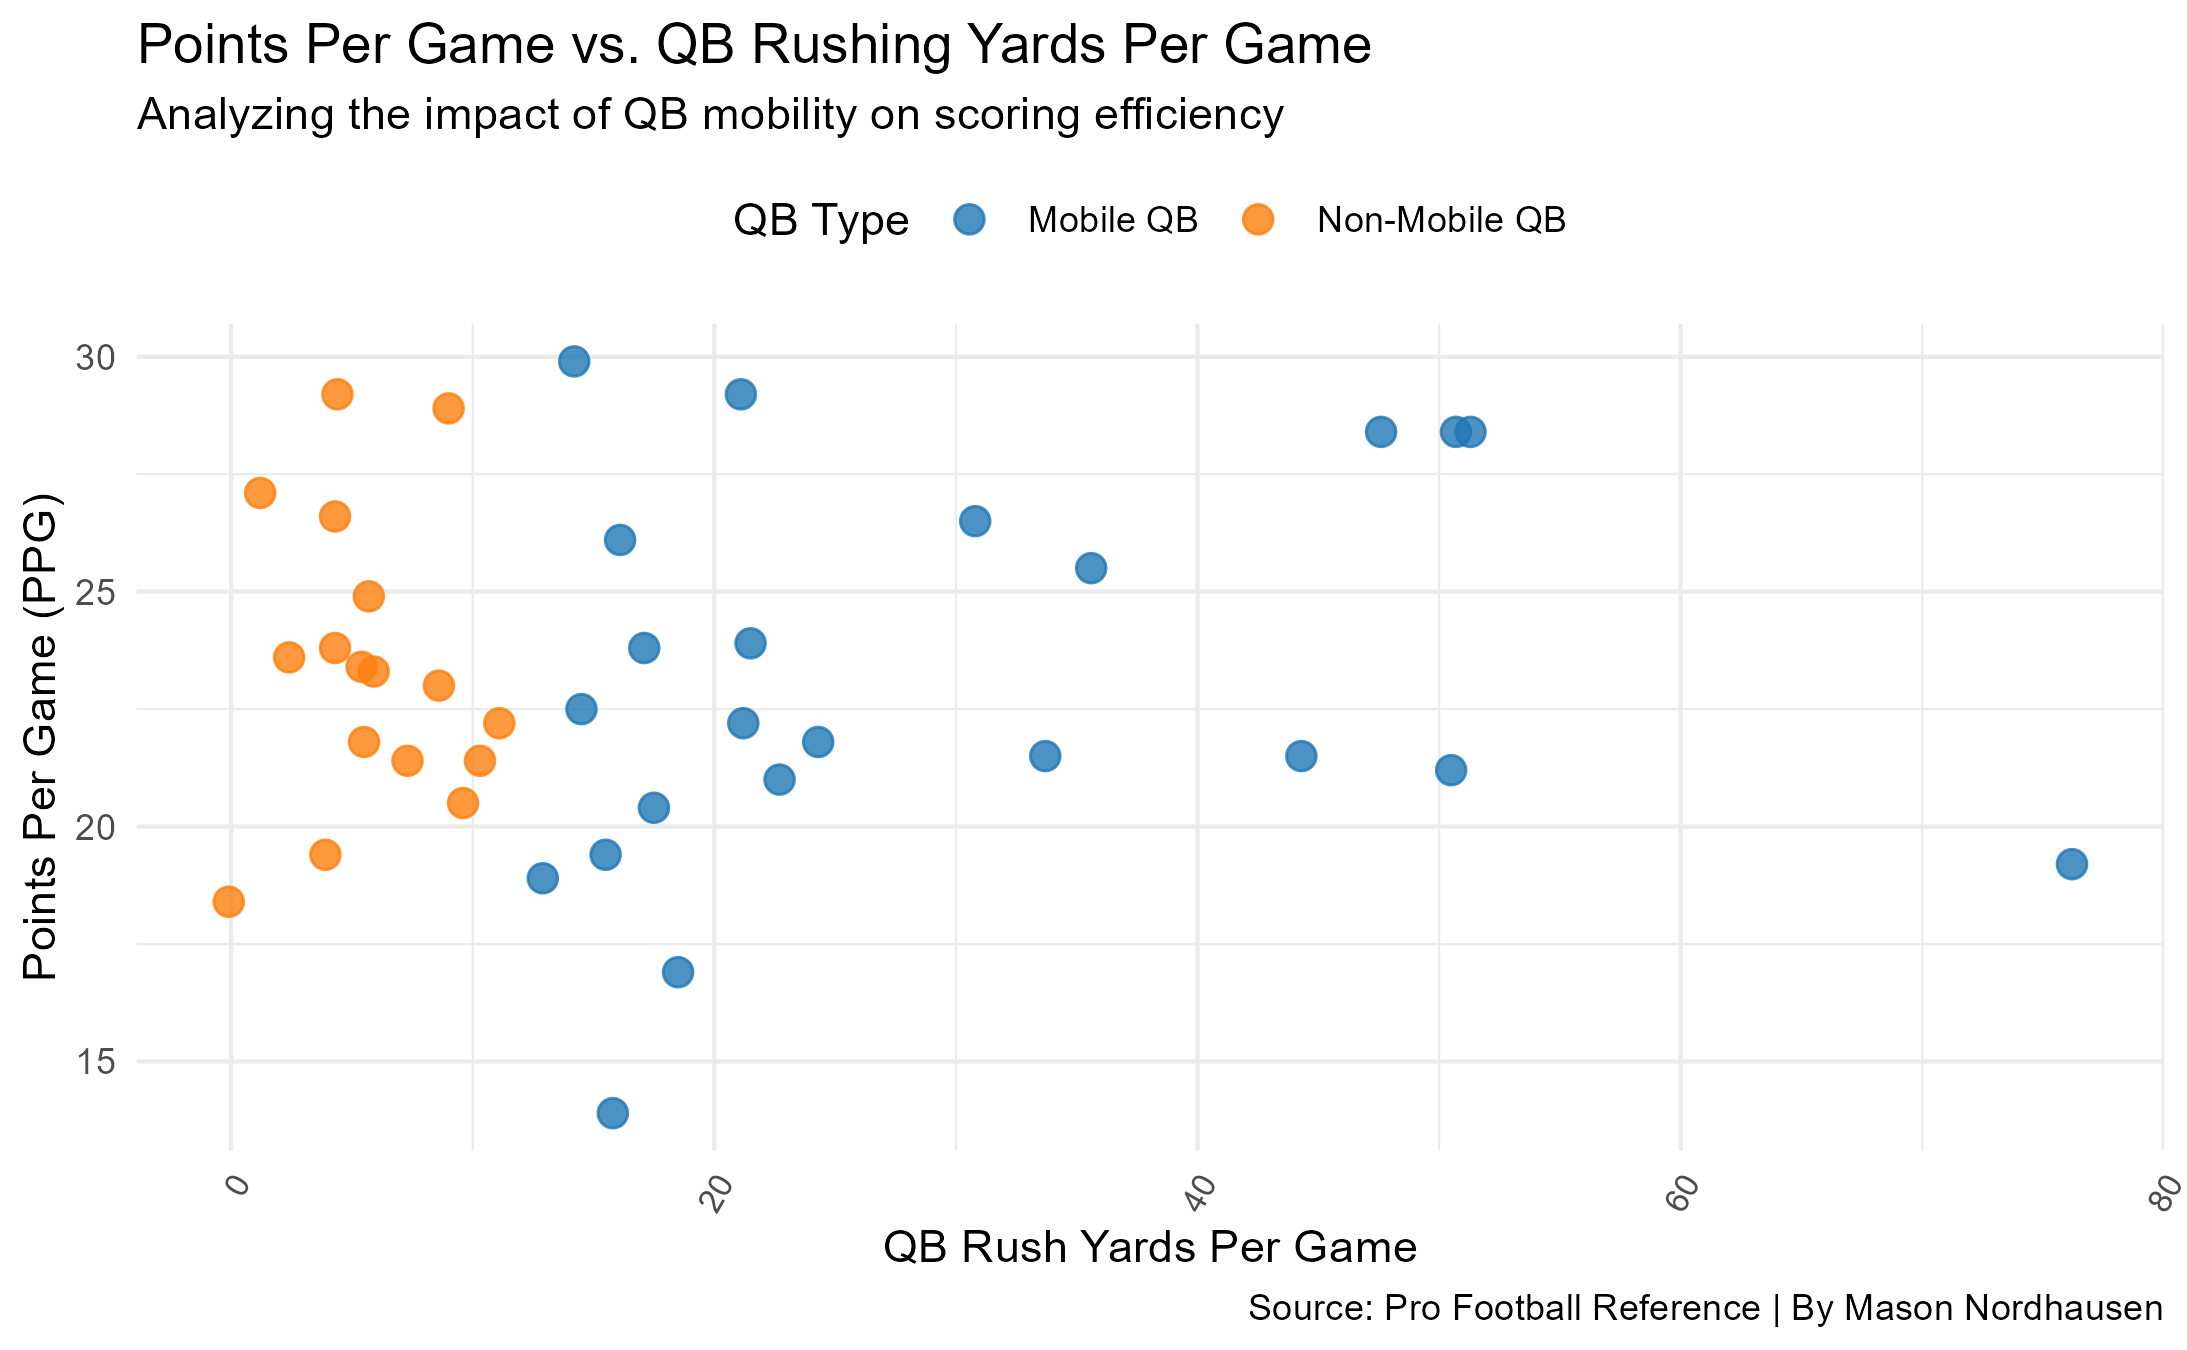
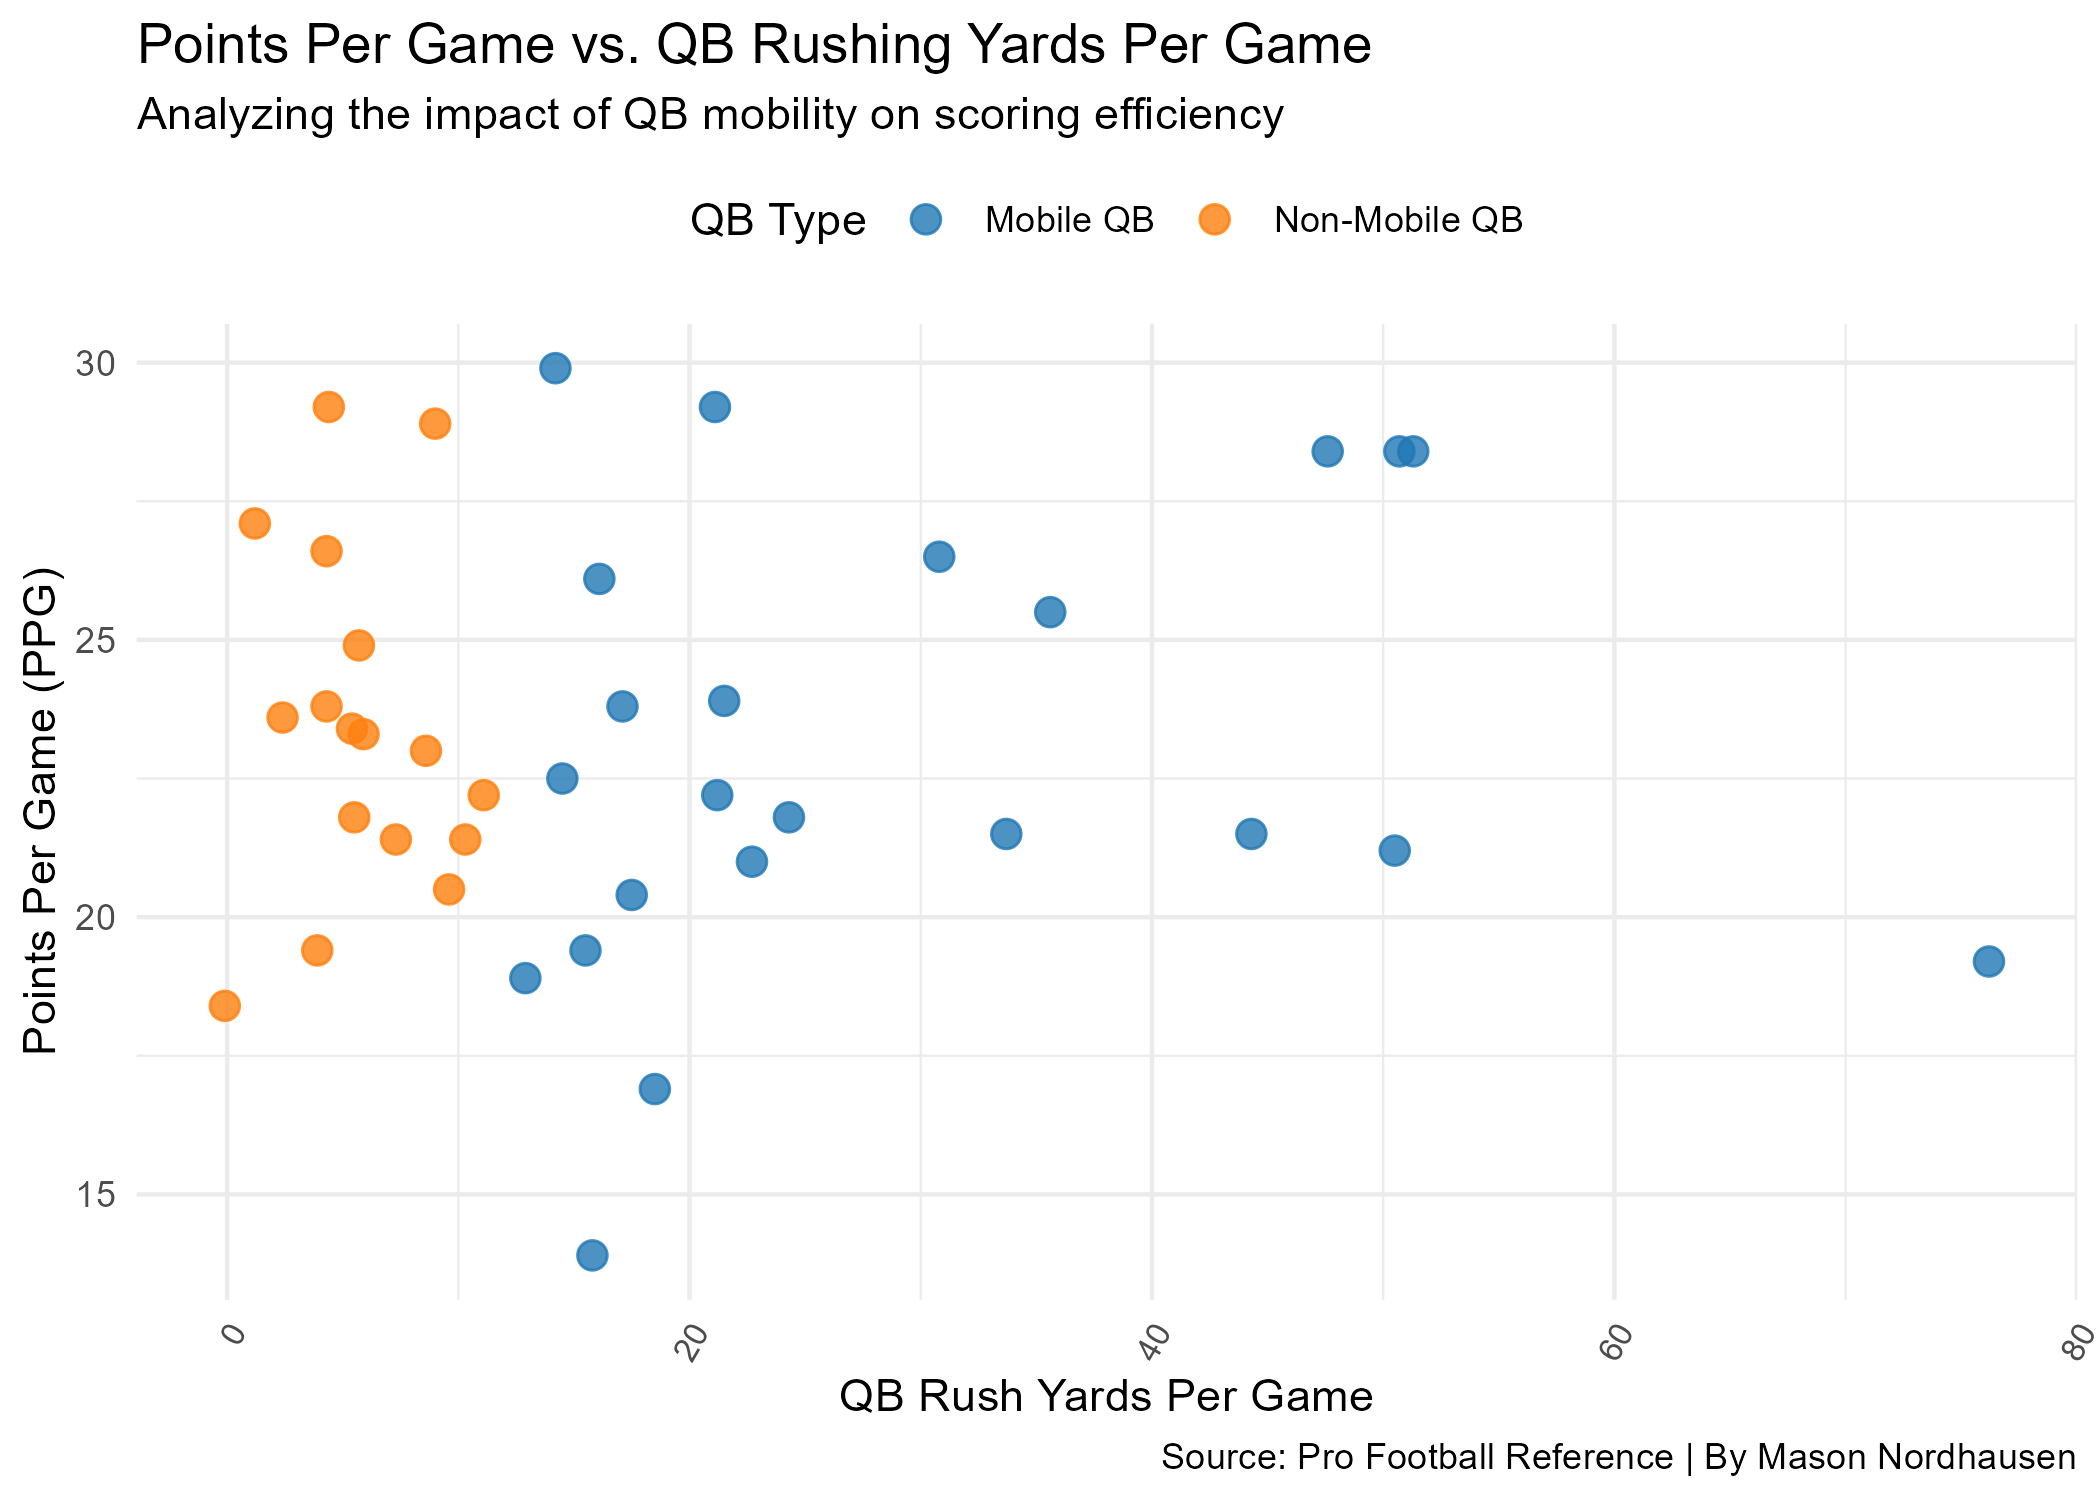
update index

diff --git a/posts/Mobile-Quarterback-Affect/index.html b/posts/Mobile-Quarterback-Affect/index.html
@@ -185,34 +185,19 @@ pre > code.sourceCode > span > a:first-child::before { text-decoration: underlin
 
 
 <p>The NFL has changed so much over the past few years, and one thing I’ve noticed is how mobile quarterbacks have started to dominate the conversation. Players like Lamar Jackson, Jalen Hurts, and Josh Allen have brought a new level of excitement to the game, redefining what it means to be a quarterback. These players aren’t just throwing the ball—they’re running, creating plays with their legs, and adding a whole new dynamic to their teams’ offenses. But I started wondering: does all that mobility actually make a difference? Are teams with mobile quarterbacks really more successful, or is it just a flashy trend?</p>
-<p>To dig into this, I decided to categorize quarterbacks into two groups: Mobile QBs and Non-Mobile QBs. I used a simple rule—if a quarterback was in the top 50% of Rush Yards Per Game among all quarterbacks for a season, I classified them as “Mobile.” Everyone else went into the Non-Mobile group. I thought this approach would give me a clear way to see how rushing quarterbacks impact their teams compared to those who mostly stay in the pocket. I also only wanted players that played in 75% of the teams game so that way team stats are not affected by a backup playing for them (13 games)</p>
+<p>To dig into this, I decided to categorize quarterbacks into two groups: Mobile QBs and Non-Mobile QBs. I used a simple rule, if a quarterback was in the top half of Rush Yards Per Game among all quarterbacks for a season, I classified them as “Mobile.” Everyone else went into the Non-Mobile group. I thought this approach would give me a clear way to see how rushing quarterbacks impact their teams compared to those who mostly stay in the pocket. I also only wanted players that played in the majority of the team’s game so that way team stats are not affected by a backup playing for them (13 games)</p>
 <p>To get the data I needed, I turned to Pro Football Reference. I used different tables within the site to pull data on individual quarterback rushing stats, team offensive metrics like points per game (PPG) and total yards, red zone efficiency, and win-loss records. By combining all of this data, I created a single dataset that links quarterback rushing performance to team success. My goal was simple: find out if having a mobile quarterback leads to better offensive production and more wins.</p>
 <p>The first thing I wanted to look at was the relationship between quarterback rushing yards and key offensive metrics. My goal was to see if more rushing yards from the QB position correlated with a more productive offense. Below, I’ve put together a scatter plot showing how QB rushing yards connect to points per game, total yards per game, and red zone efficiency.</p>
 <div class="cell">
-<div class="cell-output cell-output-stderr">
-<pre><code>Rows: 57 Columns: 14
-── Column specification ────────────────────────────────────────────────────────
-Delimiter: ","
-chr  (2): Player, Team
-dbl (12): Rk, Age, G, GS, Att, Yds, TD, Y/A, Y/G, A/G, Fmb, Year
-
-ℹ Use `spec()` to retrieve the full column specification for this data.
-ℹ Specify the column types or set `show_col_types = FALSE` to quiet this message.
-Rows: 64 Columns: 19
-── Column specification ────────────────────────────────────────────────────────
-Delimiter: ","
-chr  (2): Team, RedZone %
-dbl (17): G, Points Scored, Total Yards, Completions, Pass Attempts, Passing...
-
-ℹ Use `spec()` to retrieve the full column specification for this data.
-ℹ Specify the column types or set `show_col_types = FALSE` to quiet this message.</code></pre>
-</div>
 <div class="cell-output-display">
 <div>
 <figure class="figure">
 <p><img src="index_files/figure-html/unnamed-chunk-1-1.png" class="img-fluid figure-img" width="672"></p>
 </figure>
 </div>
+</div>
+<div class="cell-output cell-output-stderr">
+<pre><code>Saving 7 x 5 in image</code></pre>
 </div>
 </div>
 <p>First scatterplot shows almost no correlation between QB Rush Yards and how many Points Per Game (PPG) the offense scores. We can see around the 20-25 PPG is where most QBs fall into and both Mobile &amp; Non-Mobile QBs have a large portion in that range.</p>
@@ -329,6 +314,7 @@ dbl (17): G, Points Scored, Total Yards, Completions, Pass Attempts, Passing...
 <p>The chart highlights a significant distinction between Mobile and Non-Mobile QBs in terms of Win Percentage. Mobile QBs exhibit a much wider range of Win Percentages, from teams in a rebuilding phase to the very top performers. Notably, the top four QBs in terms of Win Percentage are all Mobile QBs, suggesting that elite mobility can translate into on-field success. While Non-Mobile QBs show more consistency and cluster closer together in terms of Win Percentage, their upper limit doesn’t seem to match that of their mobile counterparts.</p>
 <p>This supports the idea that while other factors, such as defense and supporting offensive players, contribute to team success, a great Mobile QB can be a game-changer. Teams with lower Win Percentages among Mobile QBs might reflect rebuilding situations, where teams are still constructing a roster to complement their quarterback’s skill set. This variability underscores the potential of Mobile QBs to elevate a team’s ceiling when paired with a strong supporting cast.</p>
 <p>While the advantages of Mobile QBs in areas like Win Percentage and Red Zone efficiency, their unique style of play introduces a layer of unpredictability—namely, turnovers. This raises a critical question: does their ability to create outweigh the risks they bring to possession security?</p>
+<p>It is important to note that by Turnovers in this graph it is including all fumbles (lost or recovered by the offense). Due to the fact that once that ball comes out it is a 50/50 chance for the offense to recover, which is a risk that needs accounted for/</p>
 <div class="cell">
 <details class="code-fold">
 <summary>Code</summary>

diff --git a/index.html b/index.html
@@ -200,7 +200,7 @@ window.Quarto = {
 
 <div class="quarto-listing quarto-listing-container-default" id="listing-listing">
 <div class="list quarto-listing-default">
-<div class="quarto-post image-right" data-index="0" data-categories="NFL,Football" data-listing-date-sort="1733724000000" data-listing-file-modified-sort="1733770376558" data-listing-date-modified-sort="NaN" data-listing-reading-time-sort="10" data-listing-word-count-sort="1958">
+<div class="quarto-post image-right" data-index="0" data-categories="NFL,Football" data-listing-date-sort="1733724000000" data-listing-file-modified-sort="1733770891958" data-listing-date-modified-sort="NaN" data-listing-reading-time-sort="11" data-listing-word-count-sort="2016">
 <div class="thumbnail">
 <p><a href="./posts/Mobile-Quarterback-Affect/index.html" class="no-external"></a></p><a href="./posts/Mobile-Quarterback-Affect/index.html" class="no-external">
 <p><img loading="lazy" src="./posts/Mobile-Quarterback-Affect/image.png" class="thumbnail-image"></p>
